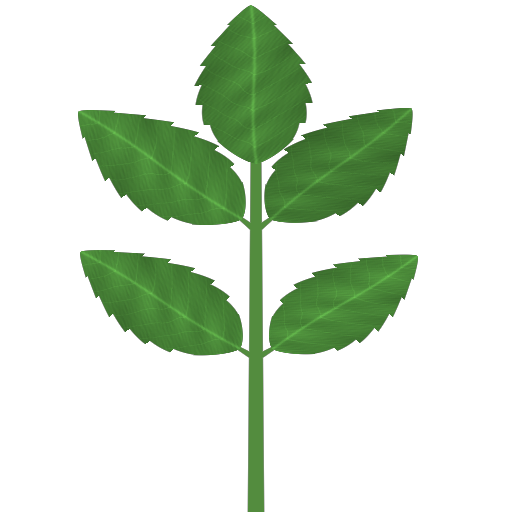
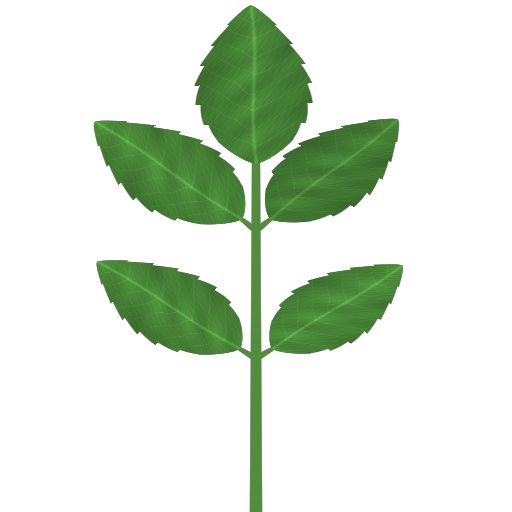
3Dの試作：ばらの葉のカードにノーマルマップ（ふちへ丸く下がるふくらみ・まん中のすじ・葉脈）。ノーマルマップの向きで明るさがかわるように
Claude-Session: https://claude.ai/code/session_01JdcgfQjaFqLCauQk6j3Pfy

diff --git a/proto3d/main.js b/proto3d/main.js
@@ -179,7 +179,7 @@ const BUMP_FS=`{vec3 sp=-vViewPosition,q0=dFdx(sp),q1=dFdy(sp),bN=normalize(norm
 const PXSHADE_FS=`{vec3 nV=normalize(normal+tnBump);float sm=.5+.5*dot(nV,uSunV),shd=getShadowMask(),s=sm*mix(${PX.shadow},1.,shd);
   vec3 b=pow(max(diffuseColor.rgb,0.),vec3(1./2.2));float lit=smoothstep(${CEL.cut-CEL.soft},${CEL.cut+CEL.soft},s);
   vec3 o=mix(pxShade(b,${CEL.shade.toFixed(2)}),pxShade(b,${CEL.light.toFixed(2)}),lit);
-  o=mix(o,pxShade(b,${CEL.hlk.toFixed(2)}),smoothstep(${CEL.hl-CEL.soft},${CEL.hl+CEL.soft},sm)*step(.5,shd));o*=clamp(1.+${BUMP.light}*(dot(nV,uSunV)-dot(normalize(normal),uSunV)),.55,1.45);outgoingLight=lin(o)*${PX.gain.toFixed(2)};}
+  o=mix(o,pxShade(b,${CEL.hlk.toFixed(2)}),smoothstep(${CEL.hl-CEL.soft},${CEL.hl+CEL.soft},sm)*step(.5,shd));o*=clamp(1.+${BUMP.light}*(dot(nV,uSunV)-dot(normalize(tnGeoN),uSunV)),.55,1.45);   /* でこぼこ（ノーマルマップ・絵から作るでこぼこ）の向きと、もとの面の向き（tnGeoN）の差で、明るさをかえる */outgoingLight=lin(o)*${PX.gain.toFixed(2)};}
 `;
 // 光のあと：流れる雲のかげ・地面の近くのもや。どの物にもかける
 const AIR_FS=`{float cs=smoothstep(.5,.72,fbm(vWP.xz*${CLOUDSH.scale}+uTime*vec2(${CLOUDSH.speed.join(',')})));outgoingLight*=1.-${CLOUDSH.k}*cs; // 雲のかげ
@@ -205,7 +205,7 @@ function toon(o={},extra={}){
     else if(k>=0){vec2 uv=vUv2*${extra.uvk.toFixed(4)};float l=k==0?texture2D(uMat[0],uv).r:k==1?texture2D(uMat[1],uv).r:k==2?texture2D(uMat[2],uv).r:k==3?texture2D(uMat[3],uv).r:k==4?texture2D(uMat[4],uv).r:texture2D(uMat[6],uv).g;
     float mk=k==0?${MATK[1].toFixed(2)}:k==1?${MATK[2].toFixed(2)}:k==2?${MATK[3].toFixed(2)}:k==3?${MATK[4].toFixed(2)}:k==4?${MATK[5].toFixed(2)}:${MATK[7].toFixed(2)};diffuseColor.rgb*=mix(1.,l*2.,mk);tnUV=uv;tnG=(vec2(tnMh(k,uv+vec2(${BUMP.e},0.)),tnMh(k,uv+vec2(0.,${BUMP.e})))-l)*(k==2?0.:k==6?${(BUMP.soil/BUMP.e).toFixed(3)}:${(BUMP.mat/BUMP.e).toFixed(3)})${extra.nobump?'*0.':''};}}`:''}
   diffuseColor.rgb*=1.-${AO.toFixed(2)}*vUnder;`)
-      .replace('#include <opaque_fragment>',BUMP_FS+PXSHADE_FS+RIM_FS+`
+      .replace('#include <normal_fragment_maps>','vec3 tnGeoN=normal;\n#include <normal_fragment_maps>').replace('#include <opaque_fragment>',BUMP_FS+PXSHADE_FS+RIM_FS+`
   {vec3 n=normalize(normal),V=normalize(vViewPosition);
    if(tnK==5){float up=(uViewInv*n).y;outgoingLight*=mix(${LEAFSOFT.lo},${LEAFSOFT.hi},smoothstep(-.5,.8,up));   /* 木の葉をふんわり：上を向いた面は明るく・下はこく、ふちに日の色の光 */
      outgoingLight+=diffuseColor.rgb*vec3(1.,.98,.7)*${LEAFSOFT.rim}*pow(1.-clamp(dot(n,V),0.,1.),2.)*clamp(up+.4,0.,1.);}
@@ -265,7 +265,7 @@ function groundMat(){
   const m=new THREE.MeshToonMaterial({gradientMap:GRAD});
   m.onBeforeCompile=sh=>{curveVS(sh);Object.assign(sh.uniforms,{uMask:{value:maskTex},uG:uGTex,uSunV});
     sh.vertexShader='attribute float aTop;varying vec3 vW,vWP;varying float vTop,vNy;\n'+sh.vertexShader.replace('void main() {','void main() {\nvW=(modelMatrix*vec4(position,1.)).xyz;vTop=aTop;vNy=normal.y;').replace(CURVE_VS,CURVE_VS+'\nvWP=cwp0;');
-    sh.fragmentShader='uniform sampler2D uMask,uG[3];uniform float uTime;uniform vec3 uSunV;varying vec3 vW,vWP;varying float vTop,vNy;\n'+NOISE+sh.fragmentShader.replace('void main() {','#include <shadowmask_pars_fragment>\nvoid main() {').replace('#include <opaque_fragment>',BUMP_FS+PXSHADE_FS+AIR_FS+'\n#include <opaque_fragment>').replace('#include <color_fragment>',`#include <color_fragment>
+    sh.fragmentShader='uniform sampler2D uMask,uG[3];uniform float uTime;uniform vec3 uSunV;varying vec3 vW,vWP;varying float vTop,vNy;\n'+NOISE+sh.fragmentShader.replace('void main() {','#include <shadowmask_pars_fragment>\nvoid main() {').replace('#include <normal_fragment_maps>','vec3 tnGeoN=normal;\n#include <normal_fragment_maps>').replace('#include <opaque_fragment>',BUMP_FS+PXSHADE_FS+AIR_FS+'\n#include <opaque_fragment>').replace('#include <color_fragment>',`#include <color_fragment>
   vec3 tnBump=vec3(0.);vec2 tnG=vec2(0.),tnUV=vW.xz;
   {vec2 p=vW.xz;
    if(vNy>.5){float e=.1,h0=fbm(p*${GBUMP.f}),hx=fbm((p+vec2(e,0.))*${GBUMP.f}),hz=fbm((p+vec2(0.,e))*${GBUMP.f});   // 地面のこまかいこぼこ（面の向きだけ）
@@ -422,14 +422,16 @@ function smoothNormals(geo){
 }
 // ---- 花（1から作る。持ち主がきめた）：スキル realistic-plant-3d のやり方で作った tex/flowers.glb（make_flowers.py。形の設計は flowers_spec.json） ----
 let FLOWERSGLB=null,LEAFCARD=null;
+const LEAFCARD_N=2.2;   /* 葉のカードのノーマルマップの強さ */
 let PLANTS=null,PROPSGLB=null;const MATSPAN={};
 async function loadProp(p){
   if(p.src==='proc'){FLOWERSGLB=FLOWERSGLB||gltf.loadAsync('./tex/flowers.glb');const o=(await FLOWERSGLB).scene.getObjectByName(p.id),geo=o.geometry.clone();geo.scale(OBJSCALE,OBJSCALE,OBJSCALE);geo.computeVertexNormals();
     p.parts=[{geo,mat:toon({vertexColors:true,side:THREE.DoubleSide},{mat:true,uvk:1/MATSPAN.bark,span:MATSPAN.bark,wind:true}),hull:null}];
     const lf=(await FLOWERSGLB).scene.getObjectByName(p.id+'_leaf');   /* アルファ抜きの葉のカード（持ち主がきめた）：葉の形の絵（透明なふち）を、板にはる */
-    if(lf){LEAFCARD=LEAFCARD||new THREE.TextureLoader().loadAsync('./tex/leaf_rose_card.png').then(t=>{t.colorSpace=THREE.SRGBColorSpace;t.anisotropy=8;return t});
+    if(lf){LEAFCARD=LEAFCARD||Promise.all(['leaf_rose_card.png','leaf_rose_card_n.png'].map((f,i)=>new THREE.TextureLoader().loadAsync('./tex/'+f).then(t=>{t.colorSpace=i?THREE.NoColorSpace:THREE.SRGBColorSpace;t.anisotropy=8;return t})));
+      const [lmap,lnor]=await LEAFCARD;   /* lnor：葉のカードのノーマルマップ（ふちへ丸く下がるふくらみ・まん中のすじ・葉脈。厚みがあるように見せる。持ち主がきめた） */
       const lg=lf.geometry.clone();lg.scale(OBJSCALE,OBJSCALE,OBJSCALE);lg.computeVertexNormals();
-      p.parts.push({geo:lg,mat:toon({vertexColors:true,map:await LEAFCARD,alphaTest:.5,alphaToCoverage:true,side:THREE.DoubleSide},{wind:true}),hull:null})}
+      p.parts.push({geo:lg,mat:toon({vertexColors:true,map:lmap,normalMap:lnor,normalScale:new THREE.Vector2(LEAFCARD_N,LEAFCARD_N),alphaTest:.5,alphaToCoverage:true,side:THREE.DoubleSide},{wind:true}),hull:null})}
     return}   /* 花には、輪郭線をつけない */
   let root;
   if(p.src==='plants'){PLANTS=PLANTS||gltf.loadAsync('./tex/plants.glb');root=(await PLANTS).scene.getObjectByName(p.id).clone()}
